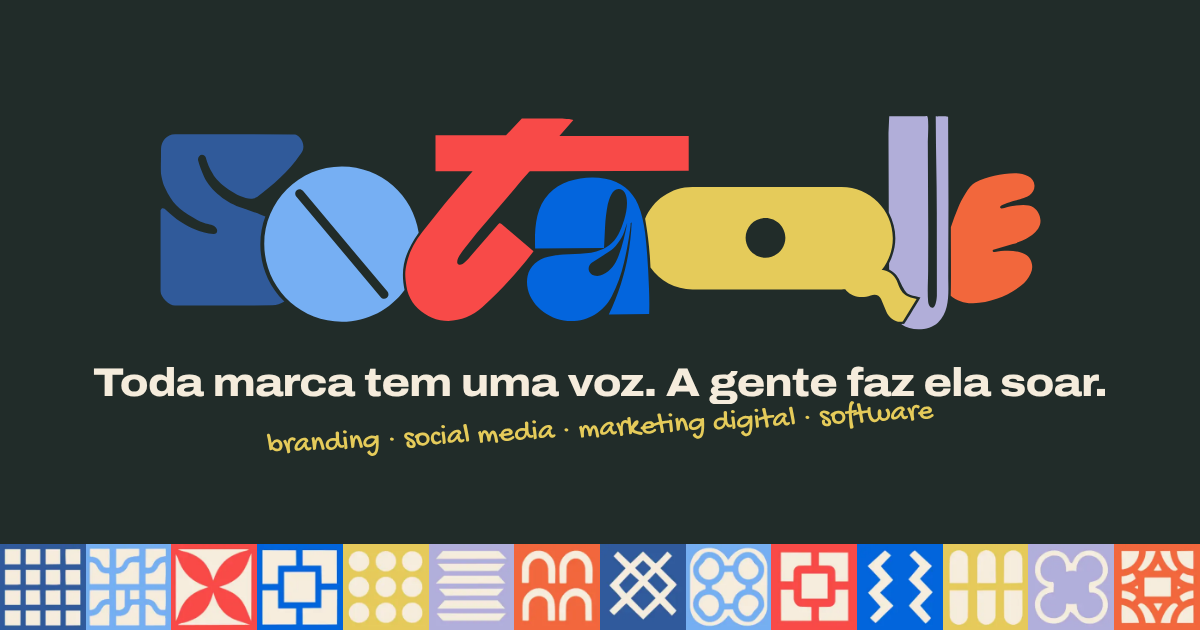
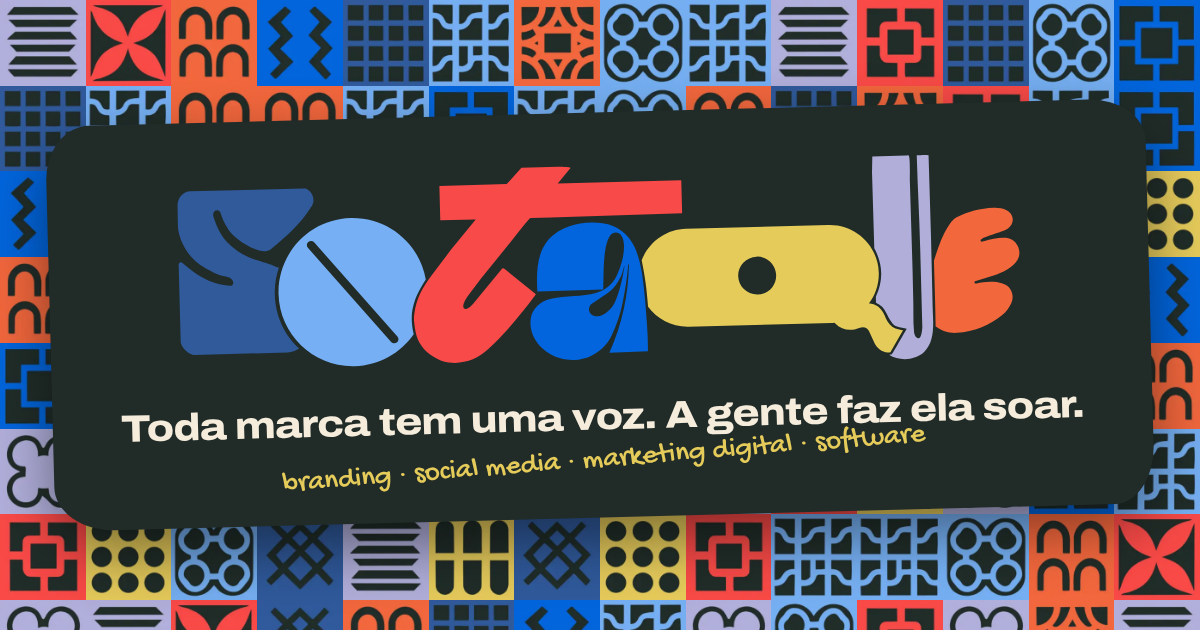
OG: parede de cobogós como fundo
Claude-Session: https://claude.ai/code/session_017FsLfb7CqekcF7AXwLYZn5

diff --git a/index.html b/index.html
@@ -17,7 +17,7 @@
 <meta property="og:image" content="og-image.png">
 <meta property="og:image:width" content="1200">
 <meta property="og:image:height" content="630">
-<meta property="og:image:alt" content="Logo colorida da Sotaque sobre fundo escuro, com a frase Toda marca tem uma voz e uma faixa de cobogós">
+<meta property="og:image:alt" content="Logo colorida da Sotaque num cartão escuro sobre uma parede de cobogós coloridos, com a frase Toda marca tem uma voz">
 <meta name="twitter:card" content="summary_large_image">
 <meta name="twitter:title" content="Sotaque — Toda marca tem uma voz. A gente faz ela soar.">
 <meta name="twitter:image" content="og-image.png">
